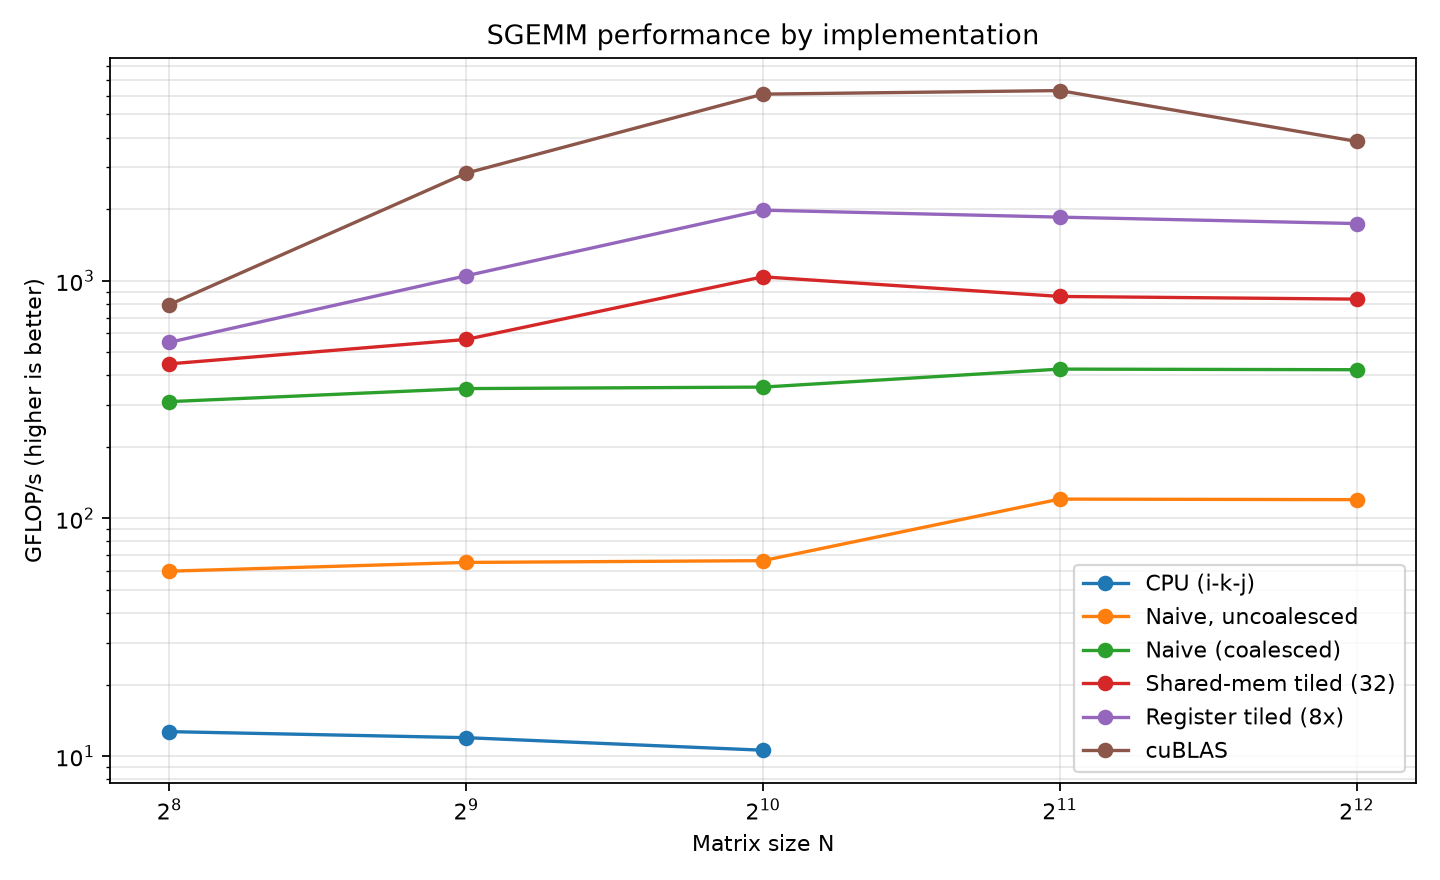
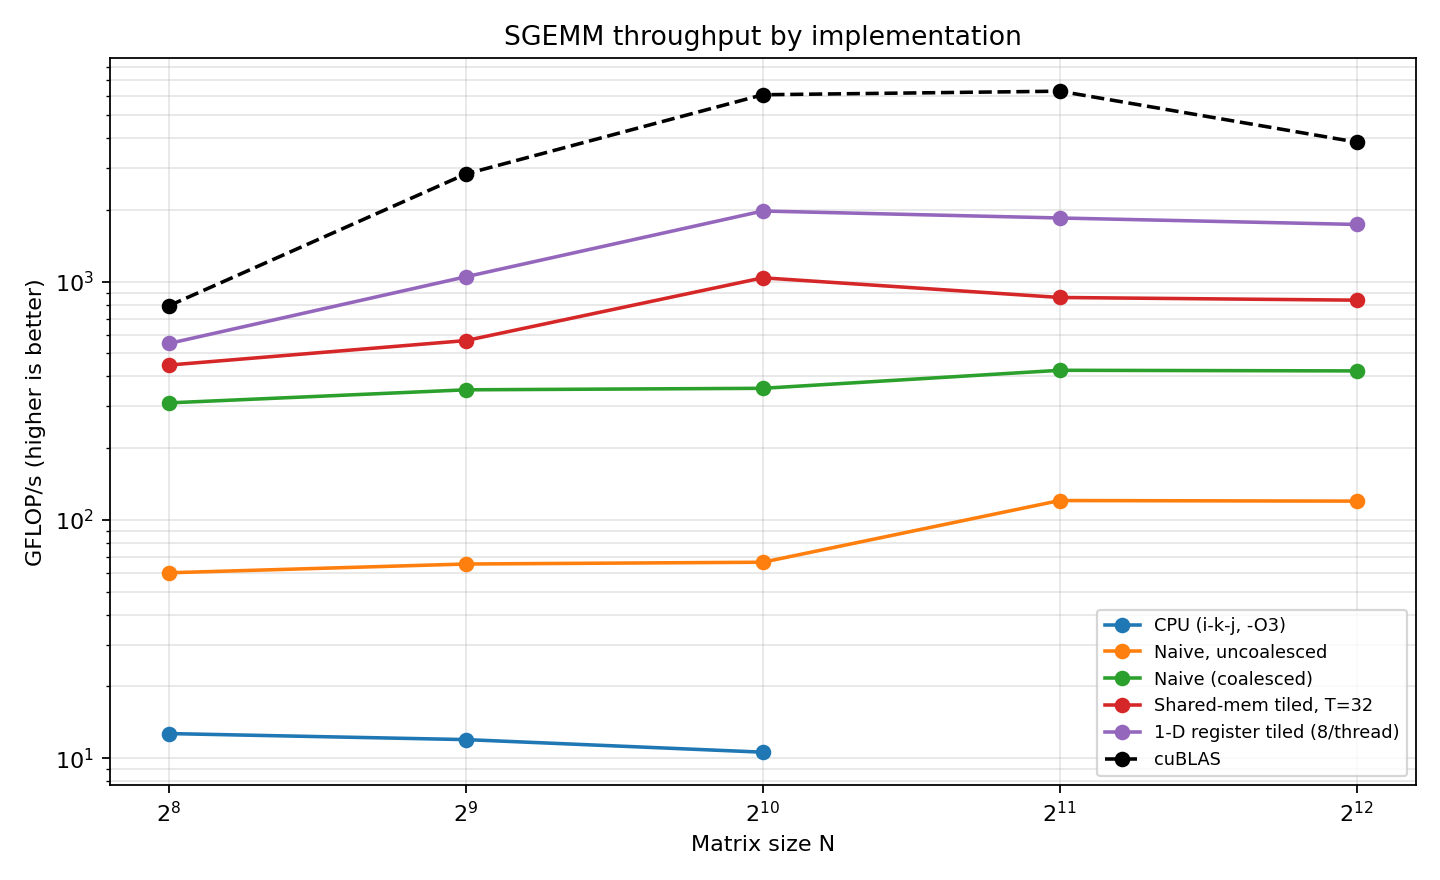
Chart the new kernels and add an N=4096 summary
Adds tiled8, tiled16 and reg2d to the plot order and labels, and a horizontal
bar chart of throughput at the largest size alongside the log-log scaling plot.

diff --git a/bench/plot.py b/bench/plot.py
@@ -1,26 +1,68 @@
+"""results/results.csv -> scaling chart + N=4096 summary bars."""
 import csv, collections
 import matplotlib.pyplot as plt
 
-data = collections.defaultdict(lambda: ([], []))
+order = ["cpu", "naive_uncoal", "naive", "tiled8", "tiled16", "tiled32",
+         "reg1d", "reg2d", "cublas"]
+labels = {"cpu": "CPU (i-k-j, -O3)",
+          "naive_uncoal": "Naive, uncoalesced",
+          "naive": "Naive (coalesced)",
+          "tiled8": "Shared-mem tiled, T=8",
+          "tiled16": "Shared-mem tiled, T=16",
+          "tiled32": "Shared-mem tiled, T=32",
+          "reg1d": "1-D register tiled (8/thread)",
+          "reg2d": "2-D register tiled (8x8/thread)",
+          "cublas": "cuBLAS"}
+
+series = collections.defaultdict(lambda: ([], []))
 with open("results/results.csv") as f:
     for r in csv.DictReader(f):
-        data[r["kernel"]][0].append(int(r["N"]))
-        data[r["kernel"]][1].append(float(r["gflops"]))
+        series[r["kernel"]][0].append(int(r["N"]))
+        series[r["kernel"]][1].append(float(r["gflops"]))
 
-order = ["cpu", "naive_uncoal", "naive", "tiled32", "reg1d", "cublas"]
-labels = {"cpu": "CPU (i-k-j)", "naive_uncoal": "Naive, uncoalesced",
-          "naive": "Naive (coalesced)", "tiled32": "Shared-mem tiled (32)",
-          "reg1d": "Register tiled (8x)", "cublas": "cuBLAS"}
-
+# --- scaling: GFLOP/s vs N ---
 plt.figure(figsize=(9, 5.5))
 for k in order:
-    if k in data:
-        xs, ys = data[k]
-        plt.plot(xs, ys, marker="o", label=labels.get(k, k))
+    if k in series:
+        xs, ys = series[k]
+        style = dict(marker="o", lw=1.6)
+        if k == "cublas":
+            style.update(color="black", ls="--")
+        elif k == "reg2d":
+            style.update(lw=2.6)
+        plt.plot(xs, ys, label=labels.get(k, k), **style)
 
-plt.xscale("log", base=2); plt.yscale("log")
-plt.xlabel("Matrix size N"); plt.ylabel("GFLOP/s (higher is better)")
-plt.title("SGEMM performance by implementation")
-plt.grid(True, which="both", alpha=0.3); plt.legend()
-plt.tight_layout(); plt.savefig("results/benchmark.png", dpi=160)
+plt.xscale("log", base=2)
+plt.yscale("log")
+plt.xlabel("Matrix size N")
+plt.ylabel("GFLOP/s (higher is better)")
+plt.title("SGEMM throughput by implementation")
+plt.grid(True, which="both", alpha=0.3)
+plt.legend(fontsize=8)
+plt.tight_layout()
+plt.savefig("results/benchmark.png", dpi=160)
 print("wrote results/benchmark.png")
+
+# --- summary bars at the largest size ---
+big = max(n for k in series for n in series[k][0])
+names, vals, cols = [], [], []
+shade = {"reg2d": "#1f4e79", "cublas": "#333333"}
+for k in order:
+    if k in series and big in series[k][0]:
+        names.append(labels.get(k, k))
+        vals.append(series[k][1][series[k][0].index(big)])
+        cols.append(shade.get(k, "#b0b0b0"))
+
+plt.figure(figsize=(8, 4.2))
+bars = plt.barh(names, vals, color=cols)
+plt.gca().invert_yaxis()
+for b, v in zip(bars, vals):
+    plt.text(v * 1.02, b.get_y() + b.get_height() / 2, f"{v:,.0f}",
+             va="center", fontsize=8)
+plt.xlabel("GFLOP/s")
+plt.title(f"SGEMM at N={big}")
+plt.xlim(0, max(vals) * 1.15)
+plt.grid(axis="x", alpha=0.3)
+plt.tight_layout()
+plt.savefig("results/summary.png", dpi=160)
+print("wrote results/summary.png")
